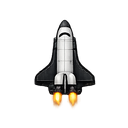
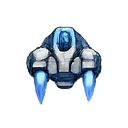
Rearranged textures for Throrium gap enemies. Added boat and pirate themed enemies for level 5

Changed region(s): [[0.1875, 0.1562, 0.8125, 0.8438]]

diff --git a/ThoriumGap_JS/sw.js b/ThoriumGap_JS/sw.js
@@ -1,6 +1,6 @@
 'use strict';
 
-var CACHE_NAME = 'shotemup-3d-v8';
+var CACHE_NAME = 'shotemup-3d-v9';
 var APP_SHELL = [
   './ThoriumGap.html',
   './ThoriumGap.js',
@@ -10,225 +10,29 @@ var APP_SHELL = [
 ];
 
 var ASSET_ROOTS = ['./assets/', './devel/'];
-var APP_ASSETS = [
-  './assets/Boss_01.png',
-  './assets/Boss_02.png',
-  './assets/Boss_03.png',
-  './assets/Boss_04.png',
-  './assets/Boss_05.png',
-  './assets/Boss_06.png',
-  './assets/Boss_07.png',
-  './assets/Boss_08.png',
-  './assets/Boss_09.png',
-  './assets/Boss_10.png',
-  './assets/Boss_11.png',
-  './assets/Boss_12.png',
-  './assets/Boss_13.png',
-  './assets/Enemy_00100a.png',
-  './assets/Enemy_00100b.png',
-  './assets/Enemy_00101a.png',
-  './assets/Enemy_00101b.png',
-  './assets/Enemy_00102a.png',
-  './assets/Enemy_00102b.png',
-  './assets/Enemy_00103a.png',
-  './assets/Enemy_00103b.png',
-  './assets/Enemy_00104a.png',
-  './assets/Enemy_00104b.png',
-  './assets/Enemy_00105a.png',
-  './assets/Enemy_00105b.png',
-  './assets/Enemy_00106a.png',
-  './assets/Enemy_00106b.png',
-  './assets/Enemy_00200a.png',
-  './assets/Enemy_00200b.png',
-  './assets/Enemy_00201a.png',
-  './assets/Enemy_00201b.png',
-  './assets/Enemy_00202a.png',
-  './assets/Enemy_00202b.png',
-  './assets/Enemy_00203a.png',
-  './assets/Enemy_00203b.png',
-  './assets/Enemy_00204a.png',
-  './assets/Enemy_00204b.png',
-  './assets/Enemy_00205a.png',
-  './assets/Enemy_00205b.png',
-  './assets/Enemy_00206a.png',
-  './assets/Enemy_00206b.png',
-  './assets/Enemy_00300a.png',
-  './assets/Enemy_00300b.png',
-  './assets/Enemy_00301a.png',
-  './assets/Enemy_00301b.png',
-  './assets/Enemy_00302a.png',
-  './assets/Enemy_00302b.png',
-  './assets/Enemy_00303a.png',
-  './assets/Enemy_00303b.png',
-  './assets/Enemy_00304a.png',
-  './assets/Enemy_00304b.png',
-  './assets/Enemy_00305a.png',
-  './assets/Enemy_00305b.png',
-  './assets/Enemy_00306a.png',
-  './assets/Enemy_00306b.png',
-  './assets/Enemy_00307a.png',
-  './assets/Enemy_00307b.png',
-  './assets/Enemy_00400a.png',
-  './assets/Enemy_00400b.png',
-  './assets/Enemy_00401a.png',
-  './assets/Enemy_00401b.png',
-  './assets/Enemy_00402a.png',
-  './assets/Enemy_00402b.png',
-  './assets/Enemy_00403a.png',
-  './assets/Enemy_00403b.png',
-  './assets/Enemy_00404a.png',
-  './assets/Enemy_00404b.png',
-  './assets/Enemy_00405a.png',
-  './assets/Enemy_00405b.png',
-  './assets/Enemy_00406a.png',
-  './assets/Enemy_00406b.png',
-  './assets/Enemy_00407a.png',
-  './assets/Enemy_00407b.png',
-  './assets/Enemy_00500a.png',
-  './assets/Enemy_00500b.png',
-  './assets/Enemy_00501a.png',
-  './assets/Enemy_00501b.png',
-  './assets/Enemy_00502a.png',
-  './assets/Enemy_00502b.png',
-  './assets/Enemy_00503a.png',
-  './assets/Enemy_00503b.png',
-  './assets/Enemy_00504a.png',
-  './assets/Enemy_00504b.png',
-  './assets/Enemy_00505a.png',
-  './assets/Enemy_00505b.png',
-  './assets/Enemy_00506a.png',
-  './assets/Enemy_00506b.png',
-  './assets/Enemy_00507a.png',
-  './assets/Enemy_00507b.png',
-  './assets/Enemy_00508a.png',
-  './assets/Enemy_00508b.png',
-  './assets/Enemy_00509a.png',
-  './assets/Enemy_00509b.png',
-  './assets/Enemy_00510a.png',
-  './assets/Enemy_00510b.png',
-  './assets/Enemy_00600a.png',
-  './assets/Enemy_00600b.png',
-  './assets/Enemy_00601a.png',
-  './assets/Enemy_00601b.png',
-  './assets/Enemy_00602a.png',
-  './assets/Enemy_00602b.png',
-  './assets/Enemy_00603a.png',
-  './assets/Enemy_00603b.png',
-  './assets/Enemy_00604a.png',
-  './assets/Enemy_00604b.png',
-  './assets/Enemy_00605a.png',
-  './assets/Enemy_00605b.png',
-  './assets/Enemy_00606a.png',
-  './assets/Enemy_00606b.png',
-  './assets/Enemy_00607a.png',
-  './assets/Enemy_00607b.png',
-  './assets/Enemy_00608a.png',
-  './assets/Enemy_00608b.png',
-  './assets/Enemy_00700a.png',
-  './assets/Enemy_00700b.png',
-  './assets/Enemy_00701a.png',
-  './assets/Enemy_00701b.png',
-  './assets/Enemy_00702a.png',
-  './assets/Enemy_00702b.png',
-  './assets/Enemy_00703a.png',
-  './assets/Enemy_00703b.png',
-  './assets/Enemy_00704a.png',
-  './assets/Enemy_00704b.png',
-  './assets/Enemy_00705a.png',
-  './assets/Enemy_00705b.png',
-  './assets/Enemy_00706a.png',
-  './assets/Enemy_00706b.png',
-  './assets/Enemy_00800a.png',
-  './assets/Enemy_00800b.png',
-  './assets/Enemy_00801a.png',
-  './assets/Enemy_00801b.png',
-  './assets/Enemy_00802a.png',
-  './assets/Enemy_00802b.png',
-  './assets/Enemy_00803a.png',
-  './assets/Enemy_00803b.png',
-  './assets/Enemy_00804a.png',
-  './assets/Enemy_00804b.png',
-  './assets/Enemy_00805a.png',
-  './assets/Enemy_00805b.png',
-  './assets/Enemy_00806a.png',
-  './assets/Enemy_00806b.png',
-  './assets/Enemy_00900a.png',
-  './assets/Enemy_00900b.png',
-  './assets/Enemy_00901a.png',
-  './assets/Enemy_00901b.png',
-  './assets/Enemy_00902a.png',
-  './assets/Enemy_00902b.png',
-  './assets/Enemy_00903a.png',
-  './assets/Enemy_00903b.png',
-  './assets/Enemy_00904a.png',
-  './assets/Enemy_00904b.png',
-  './assets/Enemy_00905a.png',
-  './assets/Enemy_00905b.png',
-  './assets/Enemy_00906a.png',
-  './assets/Enemy_00906b.png',
-  './assets/Enemy_01000a.png',
-  './assets/Enemy_01000b.png',
-  './assets/Enemy_01001a.png',
-  './assets/Enemy_01001b.png',
-  './assets/Enemy_01002a.png',
-  './assets/Enemy_01002b.png',
-  './assets/Enemy_01003a.png',
-  './assets/Enemy_01003b.png',
-  './assets/Enemy_01004a.png',
-  './assets/Enemy_01004b.png',
-  './assets/Enemy_01005a.png',
-  './assets/Enemy_01005b.png',
-  './assets/Enemy_01006a.png',
-  './assets/Enemy_01006b.png',
-  './assets/Enemy_01100a.png',
-  './assets/Enemy_01100b.png',
-  './assets/Enemy_01101a.png',
-  './assets/Enemy_01101b.png',
-  './assets/Enemy_01102a.png',
-  './assets/Enemy_01102b.png',
-  './assets/Enemy_01103a.png',
-  './assets/Enemy_01103b.png',
-  './assets/Enemy_01104a.png',
-  './assets/Enemy_01104b.png',
-  './assets/Enemy_01105a.png',
-  './assets/Enemy_01105b.png',
-  './assets/Enemy_01106a.png',
-  './assets/Enemy_01106b.png',
-  './assets/Enemy_01200a.png',
-  './assets/Enemy_01200b.png',
-  './assets/Enemy_01201a.png',
-  './assets/Enemy_01201b.png',
-  './assets/Enemy_01202a.png',
-  './assets/Enemy_01202b.png',
-  './assets/Enemy_01203a.png',
-  './assets/Enemy_01203b.png',
-  './assets/Enemy_01204a.png',
-  './assets/Enemy_01204b.png',
-  './assets/Enemy_01205a.png',
-  './assets/Enemy_01205b.png',
-  './assets/Enemy_01206a.png',
-  './assets/Enemy_01206b.png',
-  './assets/Enemy_01300a.png',
-  './assets/Enemy_01300b.png',
-  './assets/Enemy_01301a.png',
-  './assets/Enemy_01301b.png',
-  './assets/Enemy_01302a.png',
-  './assets/Enemy_01302b.png',
-  './assets/Enemy_01303a.png',
-  './assets/Enemy_01303b.png',
-  './assets/Enemy_01304a.png',
-  './assets/Enemy_01304b.png',
-  './assets/Enemy_01305a.png',
-  './assets/Enemy_01305b.png',
-  './assets/Enemy_01306a.png',
-  './assets/Enemy_01306b.png',
-  './assets/Enemy_01500a.png',
-  './assets/Enemy_01501a.png',
-  './assets/Enemy_01502a.png',
-  './assets/Enemy_01502b.png',
-  './assets/Enemy_01503a.png',
-  './assets/Enemy_01505a.png'
-];
+function z2(n) { return (n < 10 ? '0' : '') + n; }
+function z3(n) { return (n < 10 ? '00' : (n < 100 ? '0' : '')) + n; }
+var APP_ASSETS = (function () {
+  var out = [];
+  var lvl;
+  var ship;
+  out.push('./assets/Thorium_Gap_title.png');
+  out.push('./assets/players_spaceship.png');
+  out.push('./assets/players_aura.png');
+  out.push('./assets/glow_e_white.png');
+  out.push('./assets/glow_e_blue.png');
+  out.push('./assets/glow_e_green.png');
+  out.push('./assets/glow_e_red.png');
+
+  for (lvl = 1; lvl <= 13; lvl++) out.push('./assets/Boss_' + z2(lvl) + '.png');
+  for (lvl = 1; lvl <= 32; lvl++) out.push('./assets/planet_image_' + z2(lvl) + '.png');
+  for (lvl = 1; lvl <= 13; lvl++) {
+    for (ship = 0; ship <= 6; ship++) {
+      out.push('./assets/Enemy_' + z3(lvl) + z2(ship) + 'a.png');
+    }
+  }
+  return out;
+}());
 
 self.addEventListener('install', function (event) {
   event.waitUntil(

diff --git a/ThoriumGap_JS/ThoriumGap.js b/ThoriumGap_JS/ThoriumGap.js
@@ -572,7 +572,16 @@
   function d2(ax, ay, bx, by) { const dx = ax - bx, dy = ay - by; return dx * dx + dy * dy; }
   function ang(ax, ay, bx, by) { return Math.atan2(by - ay, bx - ax); }
   function format(n) { return String(Math.floor(n)).replace(/\B(?=(\d{3})+(?!\d))/g, ','); }
-  function loadNum(key, fallback) { try { const v = Number(localStorage.getItem(key)); return Number.isFinite(v) ? v : fallback; } catch (e) { return fallback; } }
+  function loadNum(key, fallback) {
+    try {
+      const raw = localStorage.getItem(key);
+      if (raw === null) return fallback;
+      const v = Number(raw);
+      return Number.isFinite(v) ? v : fallback;
+    } catch (e) {
+      return fallback;
+    }
+  }
   function saveNum(key, v) { try { localStorage.setItem(key, String(v)); } catch (e) {} }
   function loadBool(key, fallback) { try { const v = localStorage.getItem(key); return v === null ? fallback : v === '1' || v === 'true'; } catch (e) { return fallback; } }
   function saveBool(key, v) { try { localStorage.setItem(key, v ? '1' : '0'); } catch (e) {} }
@@ -1606,7 +1615,8 @@
 
   function syncTitleManualButton() {
     if (!titleManualButton) return;
-    titleManualButton.classList.toggle('show', state.mode === 'title');
+    const loading = !state.assetsReady || state.assetsLoading || assetWarmupBusy();
+    titleManualButton.classList.toggle('show', state.mode === 'title' && !loading);
   }
 
   function syncBodyModeClass() {
@@ -5273,6 +5283,7 @@
   function drawTitle() {
     const theme = mainTheme();
     const pulse = 0.5 + Math.sin(state.musicStep * 0.4) * 0.5;
+    const loading = !state.assetsReady || state.assetsLoading || assetWarmupBusy();
     const cardW = clamp(view.w * 0.86, 320, 1040);
     const cardH = clamp(view.h * 0.62, 300, 700);
     const x = (view.w - cardW) * 0.5;
@@ -5296,11 +5307,22 @@
     }
     hudCtx.fillStyle = '#fff';
     hudCtx.globalAlpha = 0.96;
-    hudCtx.font = '800 15px "Trebuchet MS", "Segoe UI", sans-serif';
-    hudCtx.fillText('Click or press Space to begin.', view.w * 0.5, y + cardH - 28);
-    hudCtx.globalAlpha = 0.82;
-    hudCtx.font = '700 12px "Trebuchet MS", "Segoe UI", sans-serif';
-    hudCtx.fillText('Open SETTINGS for sound, music, and combat tuning.', view.w * 0.5, y + cardH - 48);
+    if (loading) {
+      hudCtx.save();
+      hudCtx.globalAlpha = 0.8;
+      hudCtx.fillStyle = '#000';
+      hudCtx.fillRect(0, 0, view.w, view.h);
+      hudCtx.restore();
+      hudCtx.globalAlpha = 0.98;
+      hudCtx.font = '900 ' + clamp(Math.round(view.w * 0.038), 22, 42) + 'px "Trebuchet MS", "Segoe UI", sans-serif';
+      hudCtx.fillText('PLEASE WAIT WHILE LOADING TEXTURES', view.w * 0.5, view.h * 0.54);
+    } else {
+      hudCtx.font = '800 15px "Trebuchet MS", "Segoe UI", sans-serif';
+      hudCtx.fillText('Click or press Space to begin.', view.w * 0.5, y + cardH - 28);
+      hudCtx.globalAlpha = 0.82;
+      hudCtx.font = '700 12px "Trebuchet MS", "Segoe UI", sans-serif';
+      hudCtx.fillText('Open SETTINGS for sound, music, and combat tuning.', view.w * 0.5, y + cardH - 48);
+    }
     hudCtx.restore();
 
     hudCtx.save();

diff --git a/ThoriumGap_JS/ThoriumGap.html b/ThoriumGap_JS/ThoriumGap.html
@@ -388,17 +388,17 @@
       <div class="settings-group">
         <div class="settings-label">
           <span>Effects Volume</span>
-          <span class="settings-value" id="sfxVolumeValue">100%</span>
+          <span class="settings-value" id="sfxVolumeValue">80%</span>
         </div>
-        <input id="sfxVolume" type="range" min="0" max="1" step="0.01" value="1">
+        <input id="sfxVolume" type="range" min="0" max="1" step="0.01" value="0.8">
       </div>
 
       <div class="settings-group">
         <div class="settings-label">
           <span>Score Volume</span>
-          <span class="settings-value" id="musicVolumeValue">100%</span>
+          <span class="settings-value" id="musicVolumeValue">0%</span>
         </div>
-        <input id="musicVolume" type="range" min="0" max="1" step="0.01" value="1">
+        <input id="musicVolume" type="range" min="0" max="1" step="0.01" value="0">
       </div>
 
       <div class="settings-group">

diff --git a/ThoriumGap_JS/devel/unpack_enemy_images.py b/ThoriumGap_JS/devel/unpack_enemy_images.py
@@ -13,10 +13,10 @@ MIN_WIDTH = 64
 MIN_HEIGH = 64
 MAX_GAP_TRANSPARANCY = 0.001
 MIN_GAP_WIDTH = 10
-INPUT_FILE = "boss_altas_1.png"
-OUTPUT_FILE = "Boss_"
-OUTPUT_FIILE_STARTINDEX = 4
-EXPECTED_IMAGE_COUNT = 9
+INPUT_FILE = "enemy_fighters_16.png"
+OUTPUT_FILE = "Enemy_016"
+OUTPUT_FIILE_STARTINDEX = 0
+EXPECTED_IMAGE_COUNT = 16
 SATURATION_THRESHOLDS = [x / 1000.0 for x in range(10, 151, 5)]
 
 OUTPUT_EXTENSION = ".png"
